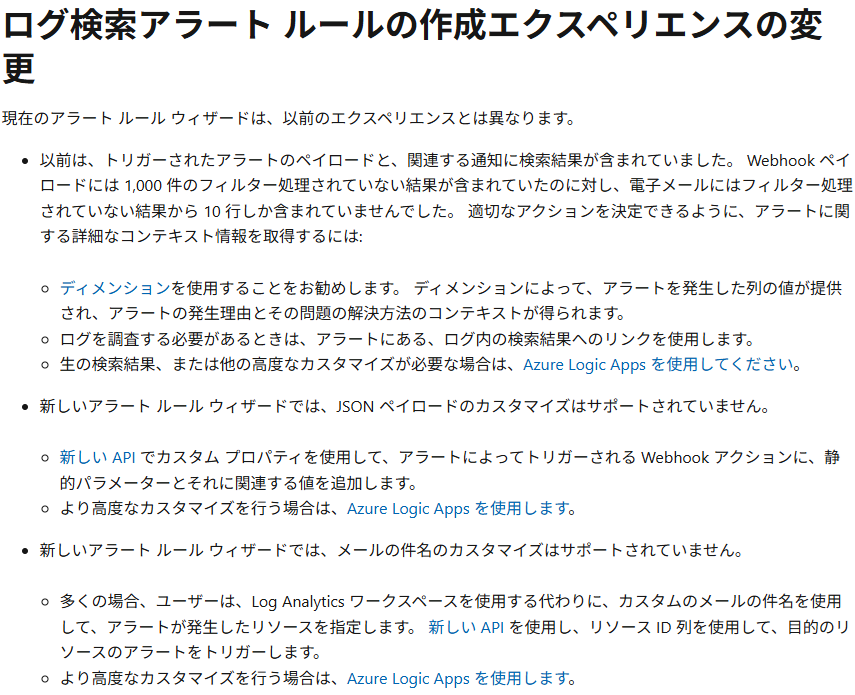
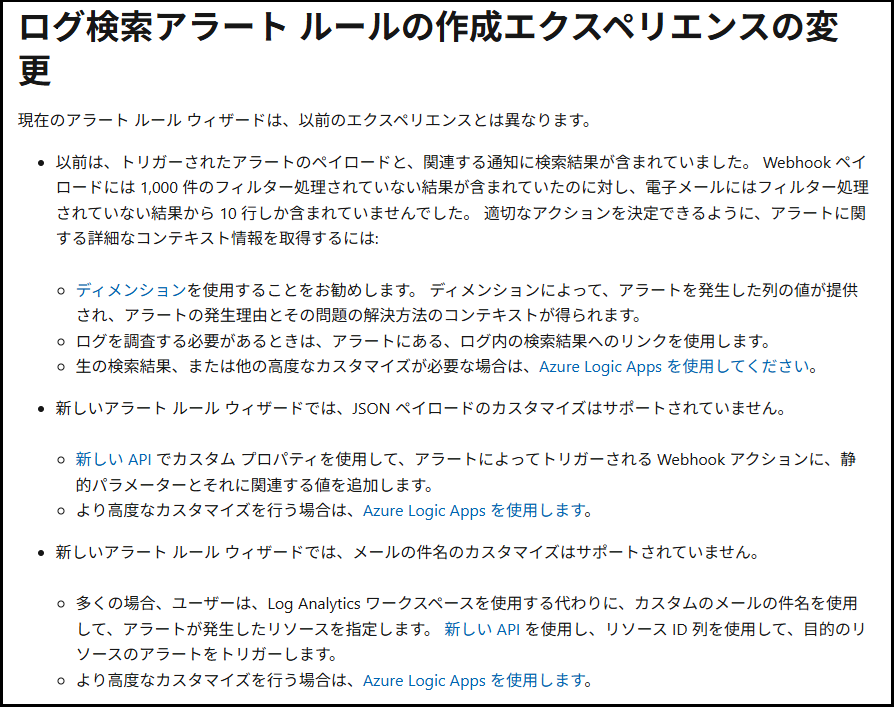
目次崩れの修正と画像に枠を追加

Changed region(s): [[0.0, 0.0, 1.0, 1.0]]

diff --git a/articles/AzureMonitorEssential/AboutCustomizingAlertNotificationEmail.md b/articles/AzureMonitorEssential/AboutCustomizingAlertNotificationEmail.md
@@ -21,7 +21,7 @@ tags:
 ## 目次
 - [アラート通知メールはカスタマイズできない](#アラート通知メールはカスタマイズできない)
 - [新しい API バージョン (API バージョン 2021-08-01) のログ アラート ルール作成画面](#新しい-API-バージョン-API-バージョン-2021-08-01-のログ-アラート-ルール作成画面)
-- [まとめ]#まとめ
+- [まとめ](#まとめ)
 
 ## アラート通知メールはカスタマイズできない
 Azure Monitor のアラート機能では、メトリックやログをトリガーにアラート通知メールを発報することができます。
